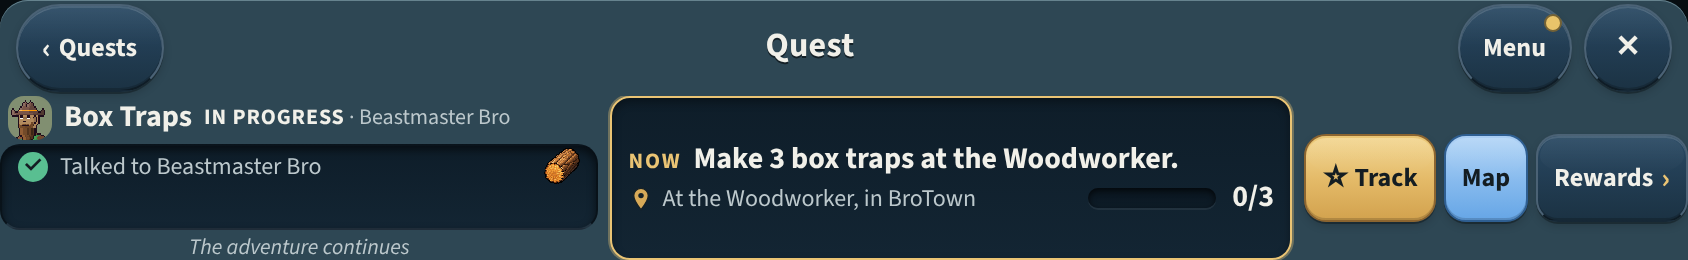
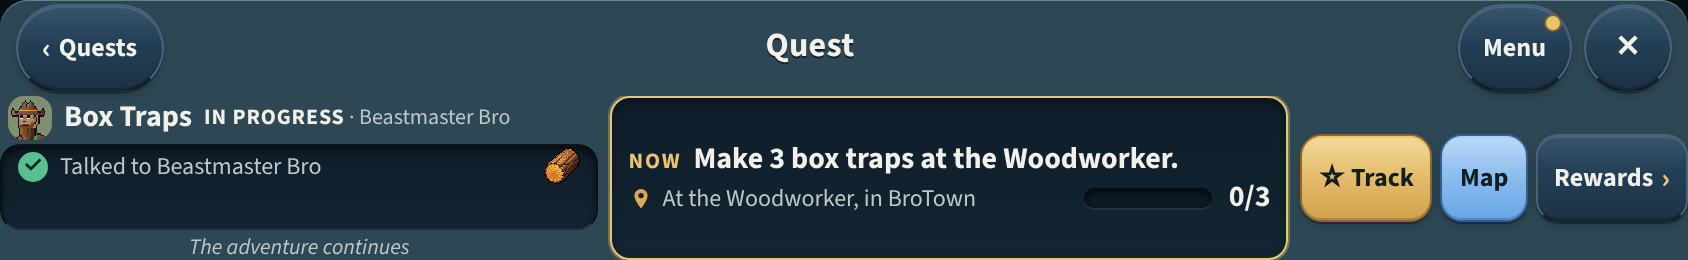
v2.3.6691: the Quests mend's pictures retaken and its status made true (card UI2-quests)
Claude-Session: https://claude.ai/code/session_01LccHaijn1UCg9NKcb6q6AU

Changed region(s): [[0.7085, 0.3692, 0.8934, 1.0]]

diff --git a/docs/plan/status/UI2.md b/docs/plan/status/UI2.md
@@ -14,10 +14,10 @@ state: ready
 - v2.3.6689, the mend (sitting 70's gatekeeper held #2391: 2b to 2d read the wiring as text): `tools/guards/gear-showcase.test.mjs` 2b to 2e read the showcase's tap, `openCardItem`, `openItemPage`, `itemPageInput` and the item page off Babel's tree, an ALLOW list holding `owner` to where the actions are offered (plants W1 to W7 red; S2 and S4 also refuse an owner's source carrying a bag entry); mp-ui2bro 2c reads the showcase.
 
 - v2.3.6691, card UI2-quests (step 6; branch claude/plan-ui2-11-quests, stacked on claude/plan-ui2-grip): the landing (your quests as rows; Daily, Completed (n), On offer (n) doors; the empty and loading states), a quest's own page (the steps behind, NOW dominant, "The adventure continues", Track, Show on map, the Rewards door; a done quest's whole history and "Next:"; an offer's talk), the frame pages questRewards, questsDaily, questsDone, questsOffers; `questDetail` out of HANDS_OVER (dash-nav 3h rewritten, its plant red); the rules `questLanding`, `journeyToNow`, `questActions`, `questOpens` (src/game/questPages.js); the drawing `dash/questViews.jsx` run in node by `tools/guards/lib/jsxText.mjs`; `tools/guards/quests-ui2.test.mjs` (R1-R12, V1-V6 planted, each red; 81 mutants, 3 equivalent survivors listed); `tools/guards/quests-mount.test.mjs` (P1-P5, D1-D4 red) on `tools/guards/lib/jsxMount.mjs` (gear-mount's follower moved there); `mp-ui2quests`; the older tests moved (mp-trackquest, mp-dailyrewards 7, mp-deskwords 4, mp-ui2frame 8; mp-questpages and mp-questjournal to `?ui2=0`); states `ui2-quest-*`; UI-DESIGN-NOTES "Quests under the new dashboard".
-- v2.3.6691, the mend of sitting 71 (the gatekeeper held #2399 at 79b820ea): quests-ui2 W2b, an ALLOW list (every word a quest's page draws is the game's own or a fixed label; plants V3b-d, the bare `{page.who.steps.length}`, "2/6" and "4 steps" beside the title, each red; W2 was green on all three); the pinned card's road to a second quest: `questPageSel` / `questPageKey` (src/game/questPages.js; the page keyed per entry, QuestDetailPanel.jsx), dashNav's push in one breath takes the same page under the opener with its way home (Back leaves in one press); quests-ui2 S1-S2 (plants R13-R14 red), dash-nav 3i (its plant red), mp-ui2quests 5b (red on 79b820ea: "beast_1" still shown, Back "‹ Quest"; green on the mend).
+- v2.3.6691, the mend of sitting 71 (the gatekeeper held #2399 at 79b820ea): quests-ui2 W2b, an ALLOW list (every word a quest's page draws is the game's own or a fixed label; plants V3b-d, the bare `{page.who.steps.length}`, "2/6" and "4 steps" beside the title, each red; W2 was green on all three); the pinned card's road to a second quest: `questPageSel` / `questPageKey` (src/game/questPages.js; the page keyed per entry, QuestDetailPanel.jsx), dashNav's push in one breath takes the same page under the opener with its way home (Back leaves in one press); quests-ui2 S1-S2 (plants R13-R14 red), dash-nav 3i (its plant red), mp-ui2quests 5b (red on 79b820ea: "beast_1" still shown, Back "‹ Quest"; green on the mend, Back "‹ World"); the sideways actions floored at the touch size (questsUi2.css).
 
 ## Next
-- Quests: NEXT_QUESTS_LINE
+- Quests (#2399): nothing, it waits for the gatekeeper.  The mend's runs on its final code (main e8ccff26 merged; the test box): ui2quests 34/34 (by a helper; 5b green, red on 79b820ea), membudget 12/12 (buffers 25.1 at its highest, home again, under the one line 25.2 that now carries both reasons, KEEP's and Quests').  After the merge, ui2quests 6 sideways was red ("Map" 42 px wide with main's kit spacing): questsUi2.css floors the sideways actions at the touch size.
 - Nothing on UI2-gear: its three PRs are up.  The Codex's road into the item page is UI2-codex's: it enters `openItemPage({ from: 'codex', ... })` (dash/itemPageOpen.js), place 'codex'.
 
 ## Found
